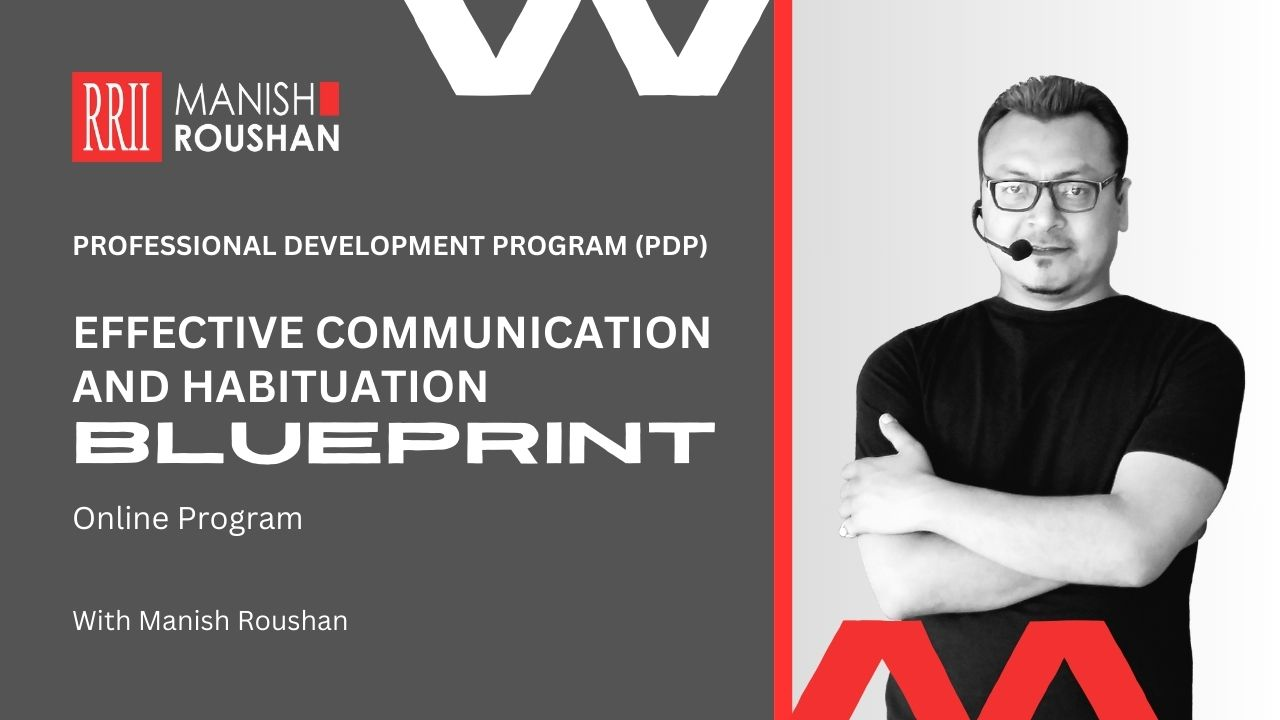
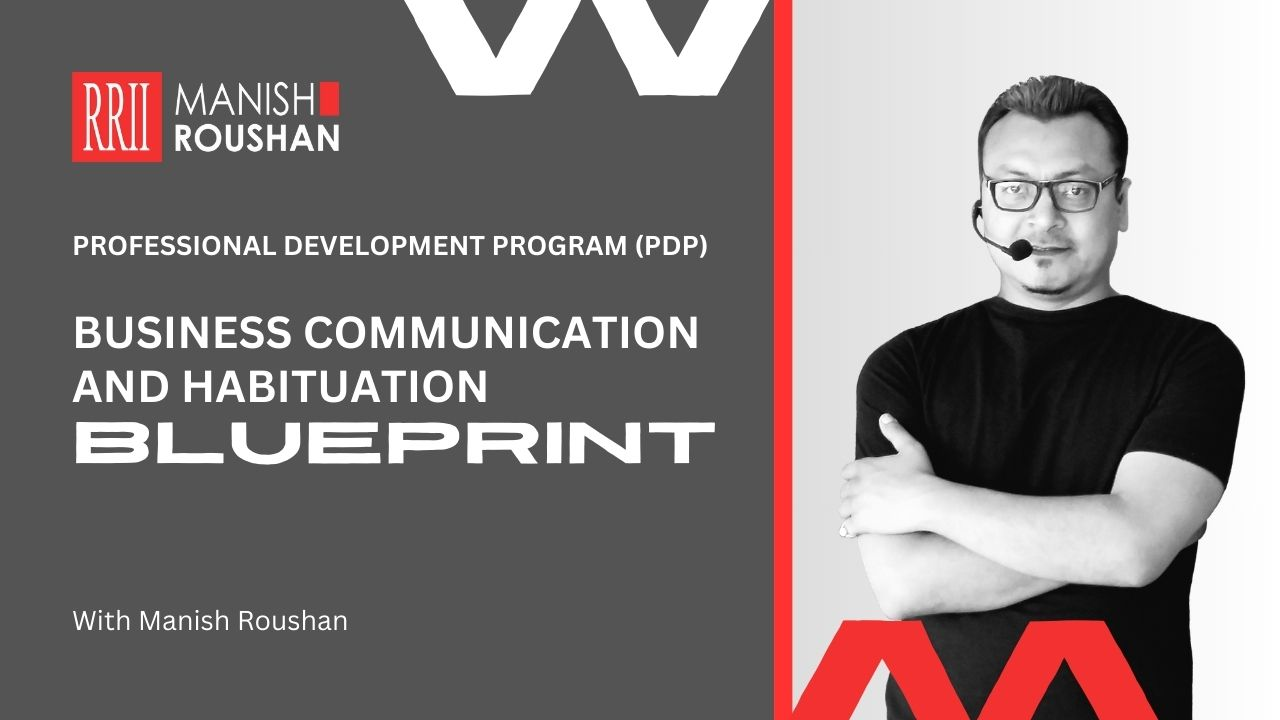
Add files via upload

Changed region(s): [[0.0625, 0.4278, 0.5625, 0.4889], [0.0625, 0.7028, 0.25, 0.7333]]

diff --git a/index.html b/index.html
@@ -116,12 +116,12 @@ body{
 <meta name='robots' content='noindex, follow' />
 
     <!-- This site is optimized with the Yoast SEO plugin v19.7.1 - https://yoast.com/wordpress/plugins/seo/ -->
-    <title>Roushan Research International (RRI) Institute - Effective Communication and Habituation Blueprint</title>
+    <title>Roushan Research International (RRI) Institute - Business Communication and Habituation Blueprint</title>
 
     <!--OG Tags -->
-    <meta name="og:title" content="Effective Communication and Habituation Blueprint" />
+    <meta name="og:title" content="Business Communication and Habituation Blueprint" />
     <meta name="content" property="og:content" />
-    <meta property="og:description" content="Register Now for Manish Roushan's webinar on Effective Communication and Habitutaion Blueprint" />
+    <meta property="og:description" content="Register Now for Manish Roushan's webinar on Business Communication and Habitutaion Blueprint" />
     <meta property="og:type" content="page" />
     <meta property="og:url" content="https://rezmatic.github.io/Webinar-EBCB/index.html"/>
     <meta property="og:image" content="http://rezmatic.github.io/Webinar-EBCB/ogimage-webinarEBCB.png" />
@@ -264,14 +264,14 @@ body{--wp--preset--color--black: #000000;--wp--preset--color--cyan-bluish-gray: 
         <div class="row justify-content-center">
             <div class="col-12 col-lg-10">
                                     <h4 class='school_name'> THE <strong>ROUSHAN RESEARCH INTERNATIONAL</strong> INSTITUTE'S</h4>
-                                <h2 class='programme_name'>EFFECTIVE COMMUNICATION AND HABITUATION BLUEPRINT</h1>
-                                    <h5 class="school_byline">ONLINE PROGRAM</h5>
+                                <h2 class='programme_name'>BUSINESS COMMUNICATION AND HABITUATION BLUEPRINT</h1>
+                                    <h5 class="school_byline">A Professional Development Program (PDP)</h5>
                                 <p class="programme_description"></p>
             </div>  
         </div>
         <div class="row justify-content-center">
             <div class="col-12 col-sm-12 col-md-6 col-lg-4">
-                <a href="https://forms.gle/ewyxVXCBQ2gDDCT37" target="_blank">
+                <a href="https://forms.gle/SJiLopcP9kF2bcPJ7" target="_blank">
                 <button class="btn btn-primary">REGISTER NOW</button></a>
             </div>
         </div>
@@ -302,19 +302,19 @@ body{--wp--preset--color--black: #000000;--wp--preset--color--cyan-bluish-gray: 
         <div class="row text-center justify-content-center">
             <div class="col-12 col-lg-3">
                 <img src="www.getsmarter.com/presentations/wp-content/uploads/2019/02/939f48db-lse-weeks.png" alt="Duration">
-                <p><strong>Date & Time of Program</strong><br />2 JUNE, 2024 | 11 AM to 12:30 PM</p>
+                <p><strong>Date & Time of Program</strong><br />14 Dec., 2024 | 2 PM to 4 PM</p>
             </div>
             <div class="col-12 col-lg-3 py-4 py-lg-0">
                 <img src="www.getsmarter.com/presentations/wp-content/uploads/2019/02/e1db2980-lse-hours.png" alt="Effort">
-                <p><strong>Program Fee </strong> <br /> <s>5000</s> Free </p>
+                <p><strong>Program Fee </strong> <br /> <s>2000</s> Free </p>
             </div>
             <div class="col-12 col-lg-3 pb-4 pb-lg-0">
                 <img src="www.getsmarter.com/presentations/wp-content/uploads/2019/02/4b585016-lse-modules.png" alt="Learning Format">
-                <p><strong>Who can join?</strong><br /> Students pursuing professional course</p>
+                <p><strong>Who can join?</strong><br /> Management & IT Students</p>
             </div>
                         <div class="col-12 col-lg-3">
                 <img src="www.getsmarter.com/presentations/wp-content/uploads/2021/06/LSE_multiple-paymets_icon-1.png" alt="Other Detail">
-                <p><strong>Certificate</strong><br /> On completion of program*</p>
+                <p><strong>Certificate*</strong><br /> On completion of program(on-demand) </p>
             </div>
                     </div>
     </div>
@@ -365,7 +365,7 @@ body{--wp--preset--color--black: #000000;--wp--preset--color--cyan-bluish-gray: 
                 <p class="mb-0"><span class="highlight_number">1</span></p>
             </div>
             <div class="col-12 col-md-7 py-2 py-md-4">
-                <span class="mb-0"><p><strong>Effective Business Communication skills</strong> to prepare you for the workplace.</p>
+                <span class="mb-0"><p><strong>Business Communication skills</strong> to prepare you for the workplace.</p>
 </span>
             </div>
                             <div class="col-12 col-md-1 offset-md-2">
@@ -386,7 +386,7 @@ body{--wp--preset--color--black: #000000;--wp--preset--color--cyan-bluish-gray: 
                                 <p class="mb-0"><span class="highlight_number">4</span></p>
                             </div>
                             <div class="col-12 col-md-7 py-2 py-md-4">
-                                <span class="mb-0"><p><strong>A certificate* from RRII</strong> as validation of successfully completing the program. You have to donate Rs.200 for certificate</p>
+                                <span class="mb-0"><p><strong>A certificate from RRII</strong> as validation of successfully completing the program which you can mention this certification in your resume and Linkedin profile. </p>
 </span>
                             </div>
                                 </div>
@@ -457,9 +457,9 @@ body{--wp--preset--color--black: #000000;--wp--preset--color--cyan-bluish-gray: 
                 
                 <div class="col-12">
                     <span id="convener-copy2" class="px-2">
-                        <p style="text-align: justify;">The Effective Communication and Habituation Blueprint is <strong>world's first online program</strong> based on the science of Habit and Behavioral Change. Developed by <strong>Communication Scientist Manish Roushan</strong>, this program is based on a scientific process named <strong>structured habituation</strong>. The online program serves as the guide for students pursuing professional studies in various domains to prepare them by adopting the communication and soft skills required at the workplace.</p>
-                        <p style="text-align: justify;">Learning any new skill cannot be accomplished in a day or two. So is effective communication. As per the new research published in European Journal of Social Psychology, it takes an average of minimum 66 days to learn any new skill. On the other hand, it has been found that learners want to learn communication in the best way possible but they fail abruptly. And that's alright. Hence Communication Scientist Manish Roushan has discovered a model named Structured Habituation which will pave the way for learning effective communication and makes it easy for adoption of practicing habits and behavior in their everyday routine. This online blueprint program will serve as a catalyst in shaping the foundation of learning effective communication skill scientifically. </p>
-                        <p style="text-align: justify;">Communication has always been on priority list when it comes to skill for the employers at the time of recruitment. But today the communication effectivess and soft skill has gained instant momentum following the emergence of Artificial Intelligence (AI). The the only skill which can future proof the job of an employee is by honing the skill of effective communication.</p>
+                        <p style="text-align: justify;">The Business Communication and Habituation Blueprint is <strong>world's first  program</strong> based on the science of Habit and Behavioral Change. Developed by <strong>Communication Scientist Manish Roushan</strong>, this program is based on a scientific process named <strong>structured habituation</strong>. The program serves as the guide for students pursuing professional studies in various domains to prepare them by adopting the communication and soft skills required at the workplace.</p>
+                        <p style="text-align: justify;">Learning any new skill cannot be accomplished in a day or two. So is Business communication. As per the new research published in European Journal of Social Psychology, it takes an average of minimum 66 days to learn any new skill. On the other hand, it has been found that learners want to learn communication in the best way possible but they fail abruptly. And that's alright. Hence Communication Scientist Manish Roushan has discovered a model named Structured Habituation which will pave the way for learning Business communication and makes it easy for adoption of practicing habits and behavior in their everyday routine. This blueprint program will serve as a catalyst in shaping the foundation of learning Business communication skill scientifically. </p>
+                        <p style="text-align: justify;">Communication has always been on priority list when it comes to skill for the employers at the time of recruitment. But today the communication effectivess and soft skill has gained instant momentum following the emergence of Artificial Intelligence (AI). The only skill which can future proof the job of an employee is by honing the skill of Business communication.</p>
 
 
                         
@@ -503,7 +503,7 @@ body{--wp--preset--color--black: #000000;--wp--preset--color--cyan-bluish-gray: 
         <div class="row">
             <div class="col-sm-12 text-center">
                 <h3 class="text-center">WHAT YOU WILL LEARN</h3>
-                <span class="text-center mb-4"><p style="text-align: justify;">Over the powerful duration of these 90 mintues, you will uncover the secrets of effective business communication blueprint along with the structured habituation model which will help you to prepare and equip to stand-out in the world of competition. The program covers brief insight on the following:</p></span>
+                <span class="text-center mb-4"><p style="text-align: justify;">Over the powerful duration of these 2 hours, you will uncover the secrets of effective business communication blueprint along with the structured habituation model which will help you to prepare and equip to stand-out in the world of competition. The program comprise of 8 blueprint modules which are as follows: </p></span>
             </div>
         </div>
 
@@ -511,15 +511,15 @@ body{--wp--preset--color--black: #000000;--wp--preset--color--cyan-bluish-gray: 
             <div class="col-12 offset-md-2 col-md-4">
                 <strong> Blueprint 1: </strong><br />Why Communication Skill Became Employers First Choice<br />
                 <strong> Blueprint 2: </strong><br />Structured Habituation-Developing the Communicator Mindset<br />
-                <strong> Blueprint 3: </strong><br />Getting started with Communication Starters<br />
-                <strong> Blueprint 4: </strong><br />The Cult of Powerful Listening<br />
+                <strong> Blueprint 3: </strong><br />Roushan's Communication (RoCoM) Model<br />
+                <strong> Blueprint 4: </strong><br />The Cult of Powerful Listening (+Watching)<br />
                 
             </div>
             <div class="col-12 col-md-4">
-                <strong> Blueprint 5: </strong><br />Building confidence through The Mirroring Effect<br />
-                <strong> Blueprint 6: </strong><br />Voice - Why how you speak matters to me so much <br />
-                <strong> Blueprint 7: </strong><br />Body Language Essentials <br />
-                <strong> Blueprint 8: </strong><br />Sustainable business communication<br />
+                <strong> Blueprint 5: </strong><br />Voice - How you speak matters so much<br />
+                <strong> Blueprint 6: </strong><br />Kinesics - Body Language Essentials <br />
+                <strong> Blueprint 7: </strong><br />Preparing for the Battleground <br />
+                <strong> Blueprint 8: </strong><br />Sustainable Business Communication<br />
                 
             </div>
     </section>
@@ -630,9 +630,9 @@ body{--wp--preset--color--black: #000000;--wp--preset--color--cyan-bluish-gray: 
                 <div class="col-12">
                     <span id="convener-copy" class="px-2">
                         <p style="text-align: justify;">Before we understand "Structured Habituation", it is imperative to first understand a "Habit".</p>
-                        <p style="text-align: justify;">As defined by the scholar Bas Verplanken and Sheina Orbell in the Journal of Applied Social Psychology, Habits are learned sequences of acts that have become atomatic responses to specific cues, and are functional in obtaining certain goals or end-states. In simple words, a habit is a behavior, an act or a sequence of acts that humans perform automatically. The feature of AUTOMATICITY of a behavior or an act is the result of repeating the same behavior or act until it becomes and forms a HABIT. In yet another words, once behaviour or an act is sufficiently repeted, it becomes a habit. Now, habits could be good or bad but here we will limit our intention good as we are going to learn a new skill which is effective communication. </p>
-                        <p style="text-align: justify;">Structured Habiutation is model developed by Manish Roushan especially designed to make learning Effective Communication easy. It is structured process of learning, practicing and executing skill with adequate repetition and frequency towards the goal of learning effective communication which further result into formation of a new habit. </p>
-                        <p style="text-align: justify;">Through the Structured Habitutaion Model the learners will be able to take tiny steps everyday with incremental velocity and they will see the magic of learning effective communication in a easy way. I welcome you all on this new journey of habit formation</p>
+                        <p style="text-align: justify;">As defined by the scholar Bas Verplanken and Sheina Orbell in the Journal of Applied Social Psychology, Habits are learned sequences of acts that have become atomatic responses to specific cues, and are functional in obtaining certain goals or end-states. In simple words, a habit is a behavior, an act or a sequence of acts that humans perform automatically. The feature of AUTOMATICITY of a behavior or an act is the result of repeating the same behavior or act until it becomes and forms a HABIT. In yet another words, once behaviour or an act is sufficiently repeted, it becomes a habit. Now, habits could be good or bad but here we will limit our intention to good as we are going to learn a new skill which is Business communication. </p>
+                        <p style="text-align: justify;">Structured Habituation is model developed by Manish Roushan especially designed to make learning Effective Business Communication easy. It is structured process of learning, practicing and executing skill with adequate repetition and frequency towards the goal of learning effective Business communication which further result into formation of a new habit. </p>
+                        <p style="text-align: justify;">Through the Structured Habitutaion Model the learners will be able to take tiny steps everyday with incremental velocity and they will see the magic of learning Business communication in a easy way. I welcome you all on this new journey of habit formation.</p>
                     </span>
                 </div>
             </div>
@@ -703,7 +703,7 @@ body{--wp--preset--color--black: #000000;--wp--preset--color--cyan-bluish-gray: 
                 
                 <div class="col-12">
                     <span id="convener-copy2" class="px-2">
-                        <p style="text-align: justify;">The Self Report Habit Index is an instrument for measuring the strength of the habit. Developed by Verplanken and Orbell, it is the most widely used instrument for accessing habits and behaviours scientifically worldwide. This is be the <strong>first time in the world</strong> when the application of Self Helf Habit Index (SRHI) instruments will be used to measure the learners behavior on 3 key features which are <strong>adoption of new behavior, making shift in old behavior and repetition of behavior </strong>over the course of learning effective communication. The program will also be using the SRHI to evalute the learners strengh and behavior while pursuing the effective communication learning.</p>
+                        <p style="text-align: justify;">The Self Report Habit Index is an instrument for measuring the strength of the habit. Developed by Verplanken and Orbell, it is the most widely used instrument for accessing habits and behaviours scientifically worldwide. This is <strong>first time in the world</strong> when the application of Self Helf Habit Index (SRHI) instruments will be used to measure the learners behavior on 3 key features which are <strong>adoption of new behavior, making shift in old behavior and repetition of behavior </strong>over the course of learning Business Communication. The program will also be using the SRHI to evalute the learners strength and behavior while pursuing the Business Communication learning.</p>
                         <p style="text-align: justify;">The learners will be presented with 12 elements of evalution and responses will be made on Likert Scale anchored by the term agree-disagree. This SRHI tool will become the basis of learners evalutation where learners themselves will be able to take action everyday and accesss their development on their own. On each accomplishment, the learner will reward themselves. Slowly the learners will start feeling the satisfaction and this will result into liking of the behavior.</p>
                         
                     </span>
@@ -825,8 +825,8 @@ body{--wp--preset--color--black: #000000;--wp--preset--color--cyan-bluish-gray: 
                 </div>
                 <div class="col-12">
                     <span id="convener-copy" class="px-2">
-                        <p style="text-align: justify;">Manish Roushan is a Communication Scientist, Author and a Business Leader. He is the Director for Business Transformation at the Roushan Research International, CEO of India's top technology firm RezMatic Technology and many others. He is on a mission to transform the workforce by upskilling them through professional development programme.</p>
-                        <p style="text-align: justify;">In 2017 he was awarded the National Award for outstanding research and contribution in the field of Management Education in India, and in 2020, he was awarded the Entrepreneur of the Year Award by Entrepreneurs Association of India for his distinguished success in business. He took his company RezMatic to be recognized among the top 20 companies in India in the technology space. He has also build his proprietary framework named Professional Pattern of Business Communication (PPBM), Assembly Intelligence (AsIn) and others. </p>
+                        <p style="text-align: justify;">Manish Roushan is a Communication Scientist, Author and a Business Leader. He is the Director for Business Transformation and CEO of Roushan Research International, Founder and CEO of India's top technology firm RezMatic Technology and many others. He is on a mission to transform the workforce by upskilling them through professional development programme.</p>
+                        <p style="text-align: justify;">In 2017 he was awarded the National Award for outstanding research and contribution in the field of Management Education in India, and in 2020, he was awarded the Entrepreneur of the Year Award by Entrepreneurs Association of India for his distinguished success in business. He took his company RezMatic to be recognized among the top 20 companies in India in the technology space. He has also build his proprietary communication program named Professional Pattern of Business Communication (PPBC), Assembly Intelligence (AsIn) and others. </p>
                         <p style="text-align: justify;">His current research interests include the clustering of business transformation, the evolution of business communication and advocating the talent crunch at workplace. His research has been published in leading magazines and newspapers.</p>
                     </span>
                 </div>
@@ -843,9 +843,7 @@ body{--wp--preset--color--black: #000000;--wp--preset--color--cyan-bluish-gray: 
             	<div class="col-12 col-md-8">
             		<h3 style="text-align: center;">HOW TO GET CERTIFICATE</h3> <br />
             		<img src="sample-certificate.jpg" alt="Roushan Research International Sample Certificate" width="200" height="500"> <br />
-            			<p style="text-align: justify;">After successful completion of the program <strong>Effective Communication and Habitutation Blueprint</strong>, you can apply for the certificate by donating Rs. 200. This donation will be used to provide various books, notebooks, facilities and other help to the poor children who are going to <strong>Kantilal's Lunkad Foundation school</strong>. </p>
-            			<P style="text-align: justify;">The foundation of Kanltilal's Lunkad Fundation School was laid with the objective of providing education to the childrens of the poor daily wage laborers.</P>
-            			<p style="text-align: justify;">The payment link will be shared at the end of the program.</p>
+            			<p style="text-align: justify;">After successful completion of the program <strong>Business Communication and Habitutation Blueprint</strong>, you can get the certificate. If you need the certificate, kindly select <strong>Yes</strong> in the <strong>Do you want certificate of this program</strong> While filling the registration form. You have to pay a fee of Rs. 1000 for the certificate after completion of the program. Selecting Yes for Certificate in the Registration Form does not mean you have to pay. If you are not satisfied with the program, you can discard your interest for it.</p>
             			<p style="text-align: justify;"><em>Philanthropy: Roushan Research International Institute believes in empowering the community with knowledge and so that they share the earned value with the ones in need.</em></p>
             	</div>
 
@@ -880,20 +878,20 @@ body{--wp--preset--color--black: #000000;--wp--preset--color--cyan-bluish-gray: 
     <div class="container">
         <div class="row text-center">
             <div class="offset-md-1 col-md-10">
-            <h3>AN ONLINE EDUCATION THAT SETS YOU APART</h3>
-                <p>This RRII online program is delivered in collaboration with Roushan Research International Institute and Manish Roushan, brand. Join a growing community of global professionals and benefit from the opportunity to:</p>
+            <h3>AN EDUCATION THAT SETS YOU APART</h3>
+                <p>This program (online and offline both) is delivered in collaboration with Roushan Research International Institute and Manish Roushan, brand. Join a growing community of global professionals and benefit from the opportunity to:</p>
             </div>
             <div class="col-md-4">
                 <img src="www.getsmarter.com/presentations/wp-content/uploads/2019/02/fb49de08-lse-head.png" alt="usp-slot-one">
-                <p>Gain verifiable and relevant competencies and earn invaluable recognition <strong>from a World's-leading communication scientist</strong>, entirely online.</p>
+                <p>Gain verifiable and relevant competencies and earn invaluable recognition <strong>from a World's-leading communication scientist</strong>, in both offline and online mode.</p>
             </div>
             <div class="col-md-4">
                 <img src="www.getsmarter.com/presentations/wp-content/uploads/2019/02/2f3cb3f9-lse-manager.png" alt="usp-slot-two">
-                <p>Enjoy a <strong>personalised, people-mediated</strong> online learning experience created to make you feel supported at every step.</p>
+                <p>Enjoy a <strong>personalised, people-mediated</strong> learning experience created to make you feel supported at every step.</p>
             </div>
             <div class="col-md-4">
                 <img src="www.getsmarter.com/presentations/wp-content/uploads/2019/02/01c32ef6-lse-skills.png" alt="usp-slot-three">
-                <p>Experience the <strong>framework and structure</strong> online to achieve massive success in your life.</p>
+                <p>Experience the <strong>framework and structure</strong> to achieve massive success in your life.</p>
             </div>
         </div>
     </div>
@@ -1339,7 +1337,7 @@ const pageLanguage = "english";
     	<div class="container">
     		<div class="row">
             <div class="col-lg-6">
-            	<p class="contact-container">Contact us: <a href="mailto:lseonline@getsmarter.com" target='_blank'>rriionline@roushanresearchint.com</a> | <span style='white-space:nowrap;'><a href="tel:+442038568850" target="_blank">020 4078 1647</a><span></p>
+            	<p class="contact-container">Contact us: <a href="mailto:lseonline@getsmarter.com" target='_blank'>admin@rrii.work.gd</a></p>
                 <p class="brand-note-container">RRII, a Roushan Research International.</a> brand</p>
                 <p class="copyright-container">Copyright &copy;2024 Roushan Research International Institute. All rights reserved</p>
             </div>
